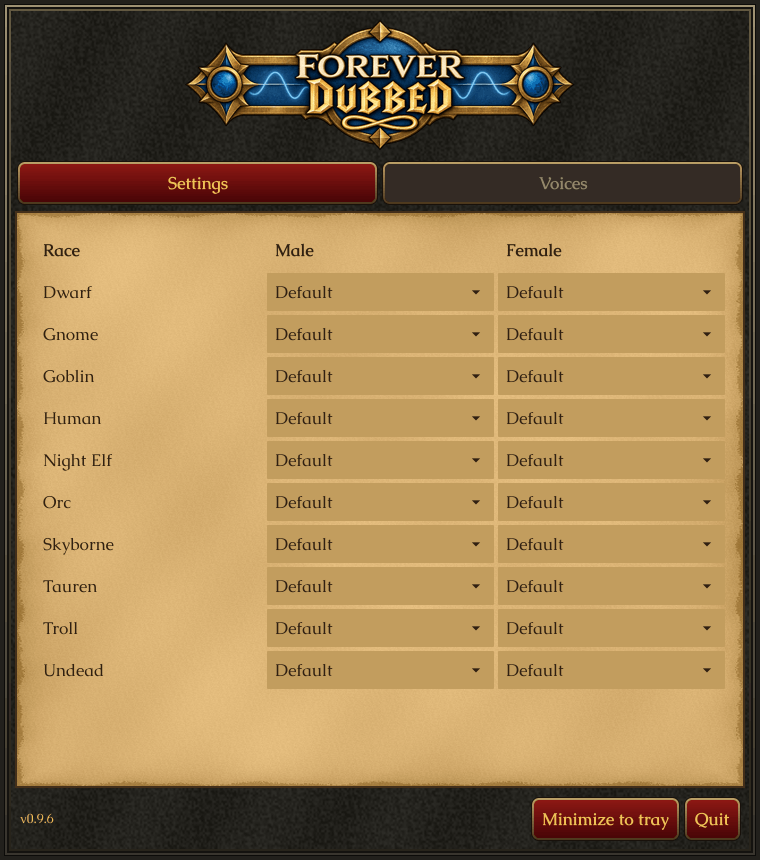
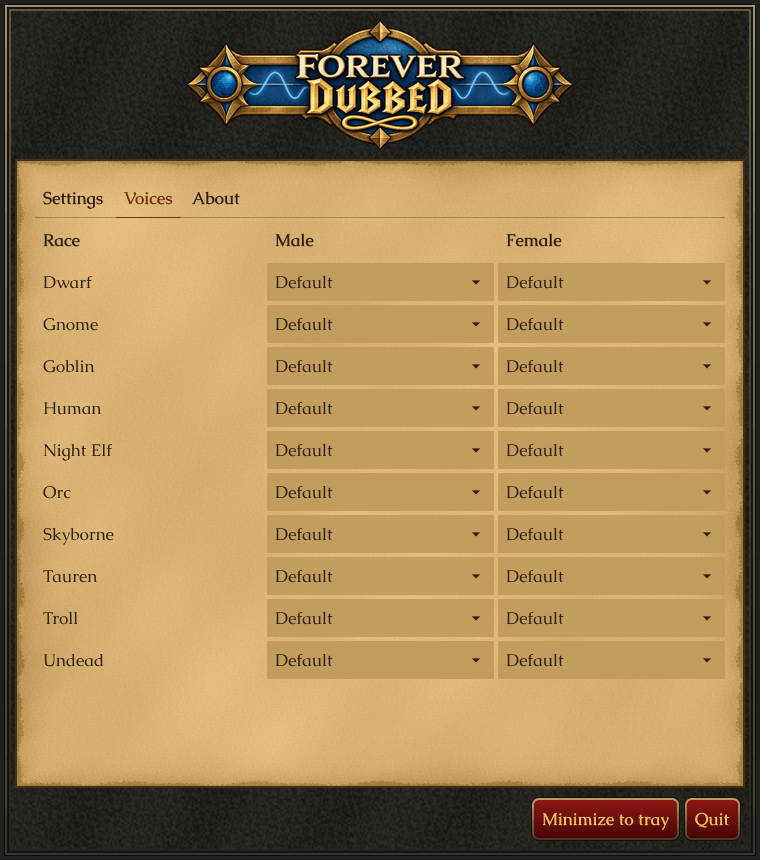
better tabs ui and added about tab

diff --git a/internal/desktop/view.go b/internal/desktop/view.go
@@ -7,6 +7,7 @@ import (
 	"foreverdubbed/addon"
 	"image/color"
 	"maps"
+	"net/url"
 	"path/filepath"
 	"sort"
 	"strings"
@@ -72,7 +73,7 @@ type dashboard struct {
 	stop                             *widget.Button
 	skip                             *widget.Button
 	skipControl                      fyne.CanvasObject
-	tabSettings, tabVoices           *widget.Button
+	tabs                             *container.AppTabs
 	voiceSelects                     map[string]*widget.Select
 	voiceChoices                     map[string]string
 	onVoiceChoices                   func(map[string]string)
@@ -140,32 +141,42 @@ func newDashboard(version string, hide, quit, stop, skip func(), queue func(bool
 	gameLocation := container.NewBorder(nil, nil, nil, container.NewCenter(questButtonWidget(d.locateWoW)),
 		container.NewVBox(widget.NewLabelWithStyle("WoW location", fyne.TextAlignLeading, fyne.TextStyle{Bold: true}), d.wowPath))
 	header := container.NewVBox(container.NewGridWithColumns(3, d.window.root, d.tile.root, audioCard), questRule(), categories, volumeControl, d.queue, questRule(), gameLocation)
-	paper := parchment(container.NewVScroll(header))
-	voices := parchment(container.NewVScroll(d.voicePanel(races)))
-	voices.Hide()
-	d.tabSettings = widget.NewButton("Settings", func() {
-		paper.Show()
-		voices.Hide()
-		d.tabSettings.Disable()
-		d.tabVoices.Enable()
-	})
-	d.tabVoices = widget.NewButton("Voices", func() {
-		voices.Show()
-		paper.Hide()
-		d.tabVoices.Disable()
-		d.tabSettings.Enable()
-	})
-	d.tabSettings.Disable()
-	tabBar := container.NewGridWithColumns(2, questButtonWidget(d.tabSettings), questButtonWidget(d.tabVoices))
-	panels := container.NewStack(paper, voices)
-	versionLabel := canvas.NewText("v"+version, gold)
-	versionLabel.TextSize = 13
-	footer := container.NewHBox(container.NewCenter(versionLabel), layout.NewSpacer(), questButton("Minimize to tray", hide), questButton("Quit", quit))
-	d.root = questFrame(container.NewBorder(container.NewVBox(inset(5, banner), d.addonNotice, inset(2, tabBar)), inset(5, footer), nil, nil, panels))
+	d.tabs = container.NewAppTabs(
+		container.NewTabItem("Settings", container.NewVScroll(header)),
+		container.NewTabItem("Voices", container.NewVScroll(d.voicePanel(races))),
+		container.NewTabItem("About", container.NewVScroll(aboutPanel(version))),
+	)
+	footer := container.NewHBox(layout.NewSpacer(), questButton("Minimize to tray", hide), questButton("Quit", quit))
+	d.root = questFrame(container.NewBorder(container.NewVBox(inset(5, banner), d.addonNotice), inset(5, footer), nil, nil, parchment(d.tabs)))
 	// Set only after the selects above restored their saved selections, so
 	// building the tab never persists or replays user choices.
 	d.onVoiceChoices = onVoiceChoices
 	return d
+}
+
+// aboutPanel uses the same version supplied to the dashboard by the running build.
+func aboutPanel(version string) fyne.CanvasObject {
+	description := widget.NewLabel("NPC voices and quest narration for WoW Forever, generated locally on your computer.")
+	description.Wrapping = fyne.TextWrapWord
+	link := func(label, address string) fyne.CanvasObject {
+		target, err := url.Parse(address)
+		if err != nil {
+			panic(err)
+		} // All addresses below are fixed project links.
+		return widget.NewHyperlink(label, target)
+	}
+	return container.NewVBox(
+		widget.NewLabelWithStyle("ForeverDubbed", fyne.TextAlignLeading, fyne.TextStyle{Bold: true}),
+		widget.NewLabel("Version "+strings.TrimPrefix(version, "v")),
+		description,
+		questRule(),
+		link("Website", "https://www.foreverdubbed.com"),
+		link("Donate", "https://ko-fi.com/dungfu"),
+		link("Discord", "https://discord.gg/uNEe4yc9mV"),
+		link("Source code", "https://github.com/fireph/ForeverDubbed"),
+		link("Report a problem", "https://github.com/fireph/ForeverDubbed/issues"),
+		link("Release notes", "https://github.com/fireph/ForeverDubbed/blob/main/CHANGELOG.md"),
+	)
 }
 
 // voicePanel lists one dropdown pair (male/female) per race. "Default" keeps

diff --git a/internal/desktop/view_test.go b/internal/desktop/view_test.go
@@ -204,16 +204,19 @@ func TestDashboardLiveStates(t *testing.T) {
 	if len(d.voiceSelects) != 6 {
 		t.Fatal("missing race/gender dropdowns", len(d.voiceSelects))
 	}
-	if d.tabSettings.Disabled() == d.tabVoices.Disabled() {
-		t.Fatal("exactly one tab button must start disabled")
+	if d.tabs.SelectedIndex() != 0 {
+		t.Fatal("Settings tab must be selected initially")
 	}
-	test.Tap(d.tabVoices)
-	if !d.tabVoices.Disabled() || d.tabSettings.Disabled() {
-		t.Fatal("Voices tab did not activate")
-	}
-	test.Tap(d.tabSettings)
-	if !d.tabSettings.Disabled() || d.tabVoices.Disabled() {
-		t.Fatal("Settings tab did not activate")
+	for _, index := range []int{1, 2, 0} {
+		d.tabs.SelectIndex(index)
+		if d.tabs.SelectedIndex() != index || !d.tabs.Items[index].Content.Visible() {
+			t.Fatalf("tab %d did not activate", index)
+		}
+		for other, item := range d.tabs.Items {
+			if other != index && item.Content.Visible() {
+				t.Fatalf("tab %d remained visible after selecting %d", other, index)
+			}
+		}
 	}
 	for key, want := range map[string]string{
 		"human:male": "Default", "human:female": "Default",

diff --git a/internal/desktop/screenshots_test.go b/internal/desktop/screenshots_test.go
@@ -68,6 +68,8 @@ func TestWebsiteScreenshots(t *testing.T) {
 		}
 	}
 	capture("settings.png")
-	test.Tap(d.tabVoices)
+	d.tabs.SelectIndex(1)
 	capture("voices.png")
+	d.tabs.SelectIndex(2)
+	capture("about.png")
 }

diff --git a/website/README.md b/website/README.md
@@ -36,9 +36,9 @@ Forever Dubbed's claims follow the root README and `addon/ForeverDubbed/ForeverD
 
 `site.js` recommends the Windows installer or macOS DMG using browser platform information. Both downloads remain accessible without JavaScript. Mobile visitors are not assigned a desktop download; the Mac requirement explicitly states Apple Silicon because browser OS detection cannot reliably determine the processor.
 
-`assets/settings.png` and `assets/voices.png` are captures of the actual Fyne widgets rendered by the desktop test driver using example connection state, not captures of a running WoW session. Replace or supplement these with live screenshots as needed. An in-game screenshot showing a quest and the data square would be useful for the how-it-works section.
+`assets/settings.png`, `assets/voices.png`, and `assets/about.png` are captures of the actual Fyne widgets rendered by the desktop test driver using example connection state, not captures of a running WoW session. Replace or supplement these with live screenshots as needed. An in-game screenshot showing a quest and the data square would be useful for the how-it-works section.
 
-Regenerate both screenshots from the repository root after desktop UI changes:
+Regenerate all three screenshots from the repository root after desktop UI changes:
 
 ```sh
 FDB_WEBSITE_SCREENSHOTS_DIR="$PWD/website/assets" \
